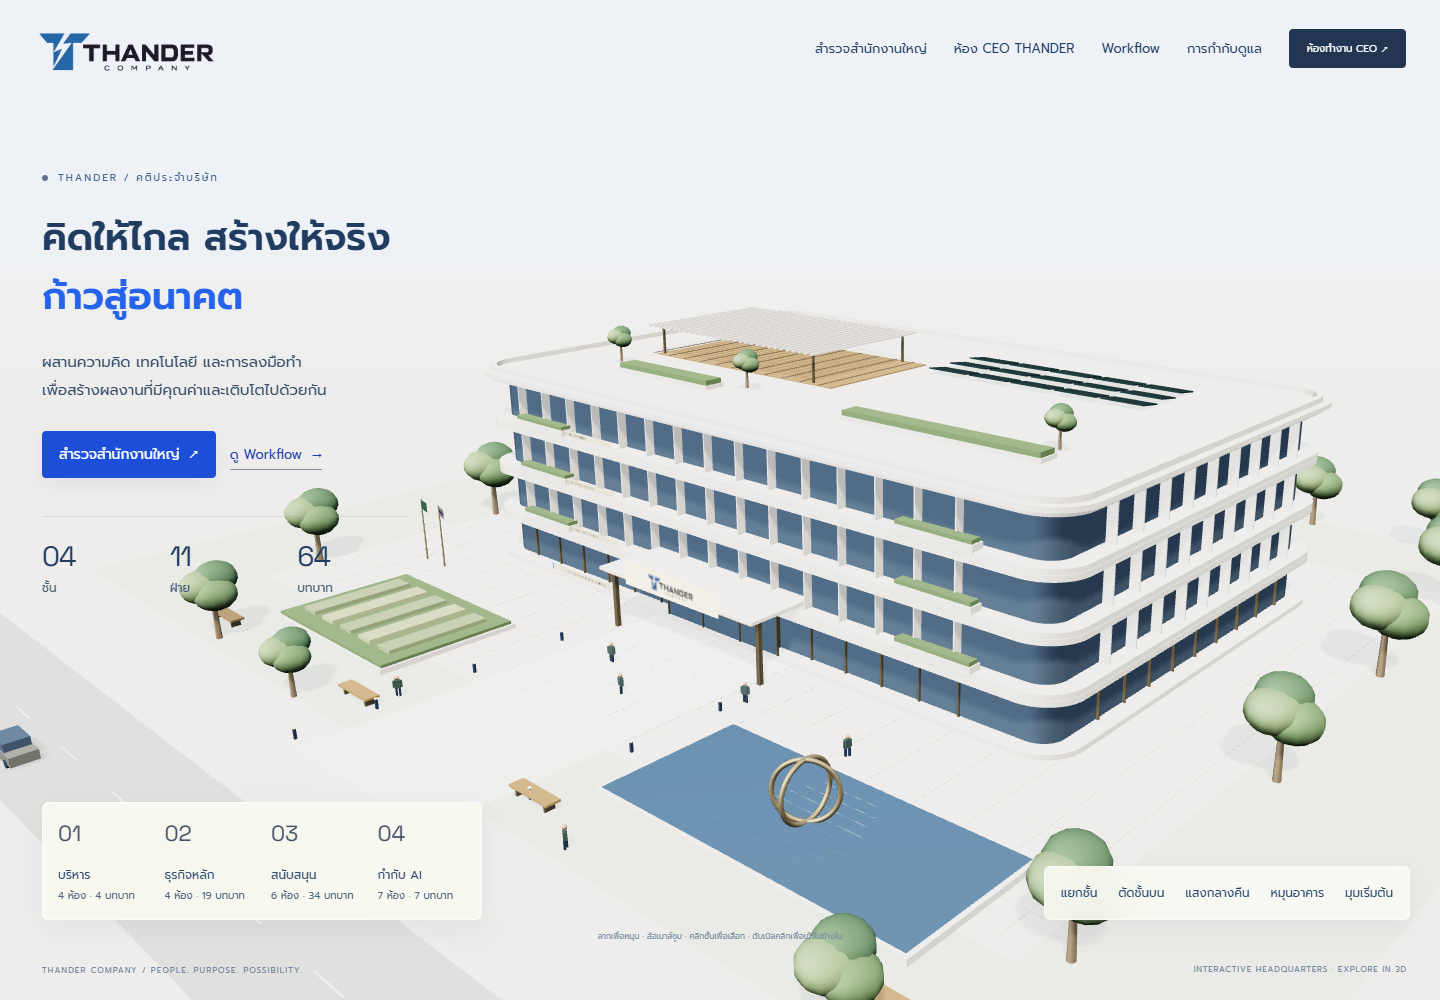
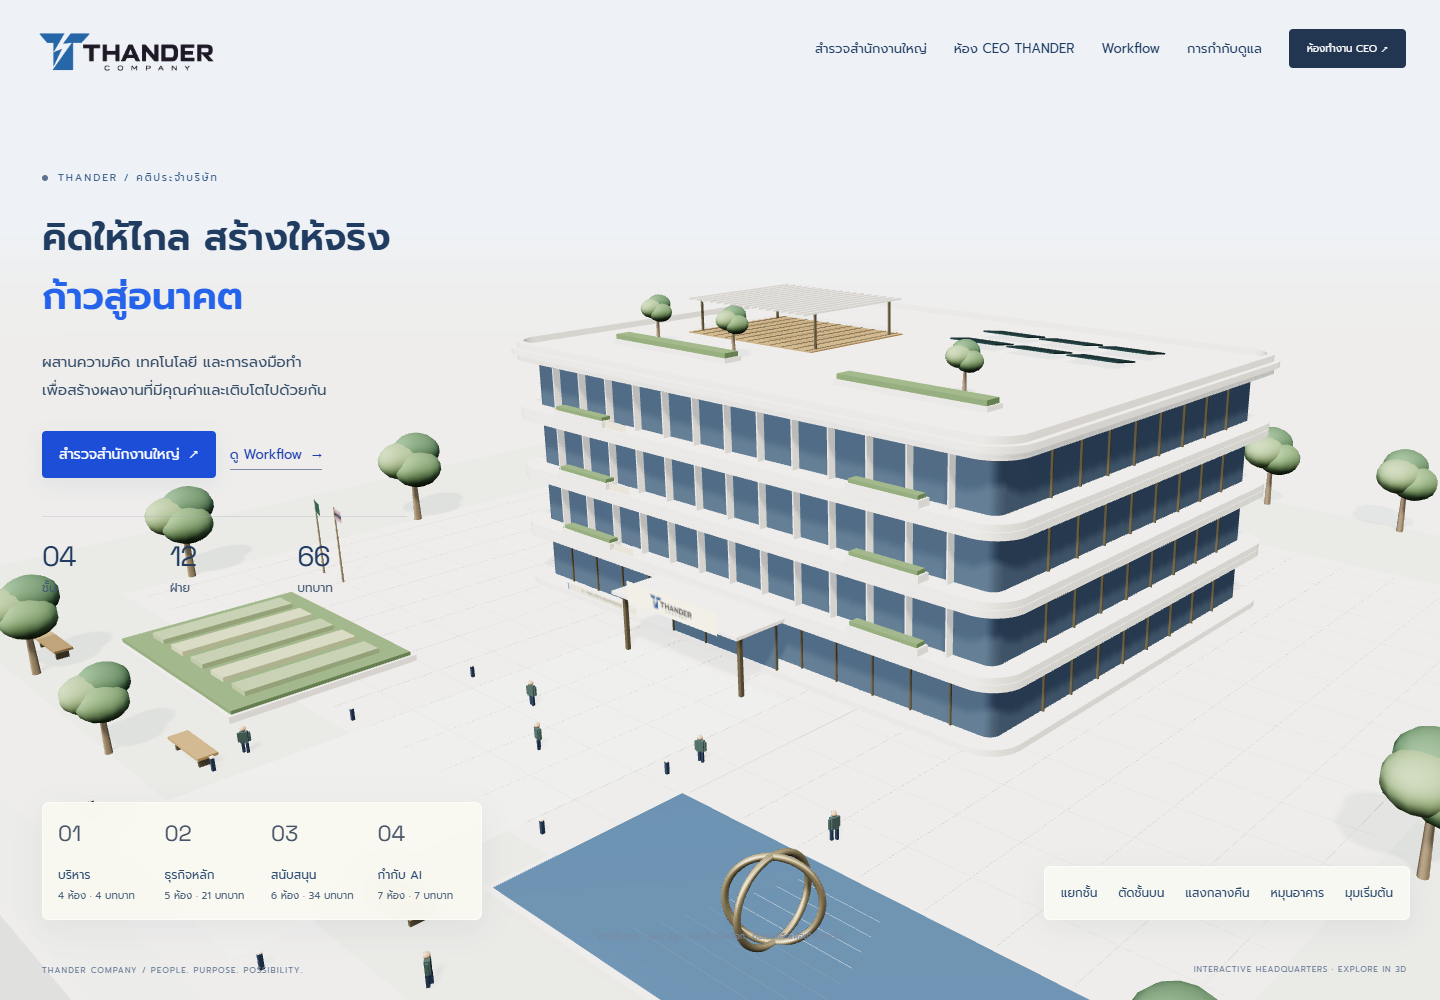
Show THANDER creative roles and proportional office plans

diff --git a/Portfolio.html b/Portfolio.html
@@ -3440,12 +3440,12 @@ a:focus-visible, button:focus-visible, input:focus-visible { outline: 2px solid 
         <div class="proj-slide" style="min-width:100%;overflow-y:auto;max-height:calc(90vh - 130px);">
           <div style="width:100%;aspect-ratio:600/225;background:#172d4c;overflow:hidden;position:relative;">
             <img src="images/projects/thander-company.png" width="1440" height="1000" loading="lazy" alt="THANDER Company — สำนักงานใหญ่ 3D พร้อมคติบริษัท มุมมองมือถือและห้องทำงาน CEO" style="width:100%;height:100%;object-fit:cover;object-position:center 47%;">
-            <span style="position:absolute;bottom:12px;left:16px;background:#152b32ed;padding:6px 10px;border-radius:6px;font-size:0.6rem;letter-spacing:0.1em;color:#c5daff;">4 FLOORS · 11 DEPARTMENTS · 64 ROLES</span>
+            <span style="position:absolute;bottom:12px;left:16px;background:#152b32ed;padding:6px 10px;border-radius:6px;font-size:0.6rem;letter-spacing:0.1em;color:#c5daff;">4 FLOORS · 12 DEPARTMENTS · 66 ROLES</span>
           </div>
           <div style="padding:1.75rem;">
             <span style="display:inline-block;font-size:0.68rem;font-weight:700;letter-spacing:0.12em;color:#93bfff;border:1px solid #93bfff44;border-radius:99px;padding:0.25rem 0.75rem;margin-bottom:1rem;">3D Campus · Workflow · CEO Workspace</span>
             <h3 class="bento-title" style="margin-bottom:0.65rem;">THANDER Company</h3>
-            <p style="font-size:0.9rem;line-height:1.85;color:rgba(248,250,252,0.72);margin:0 0 1.25rem;">สำนักงานใหญ่ 3D โทนน้ำเงิน 4 ชั้น 11 ฝ่าย 64 บทบาท พร้อมคติ “คิดให้ไกล สร้างให้จริง ก้าวสู่อนาคต” ปรับอาคารให้เด่นขึ้นบนมือถือ และพับกรอบรายละเอียดเพื่อเห็นผังภายในครบทุกชั้น เปิดดูแผนกและหน้าที่ได้เมื่อต้องการ มี Workflow และไดอะแกรม SVG อธิบายการทำงานทุกฝ่าย ห้อง CEO THANDER ชั้น 1 มี CEO ประจำห้องเพียงคนเดียว เชื่อมพื้นที่ทำงานส่วนตัว มีตัวเลขสรุป ค้นหา กรอง ลบงาน และกู้คืนจากถังขยะ พร้อมสั่งงาน Gemini ขอแก้ไข ตรวจรับ และดาวน์โหลดไฟล์ภาษาไทยสำหรับ Excel มีตัวอย่างแผนคอนเทนต์ 7 วันให้ทดลองโดยไม่ใช้ AI ส่วนงาน AI จริงใช้โควต้า Free Tier ของโปรเจกต์ Google ที่ไม่เปิด Billing และไม่สลับไป OpenAI</p>
+            <p style="font-size:0.9rem;line-height:1.85;color:rgba(248,250,252,0.72);margin:0 0 1.25rem;">สำนักงานใหญ่ 3D โทนน้ำเงิน 4 ชั้น 12 ฝ่าย 66 บทบาท พร้อมคติ “คิดให้ไกล สร้างให้จริง ก้าวสู่อนาคต” ปรับอาคารเป็น 44×32 เมตร ห้องและโต๊ะมีขนาดตามจำนวนคน เพิ่มฝ่ายครีเอทีฟและสื่อชั้น 2 พร้อมกราฟิกดีไซเนอร์และนักตัดต่อวิดีโอ มีโต๊ะ จอออกแบบและไทม์ไลน์ประจำตัว พับกรอบรายละเอียดเพื่อเห็นผังภายในครบทุกชั้น เปิดดูแผนกและหน้าที่ได้เมื่อต้องการ มี Workflow และไดอะแกรม SVG อธิบายการทำงานทุกฝ่าย ห้อง CEO THANDER ชั้น 1 มี CEO ประจำห้องเพียงคนเดียว เชื่อมพื้นที่ทำงานส่วนตัว มีตัวเลขสรุป ค้นหา กรอง ลบงาน และกู้คืนจากถังขยะ สั่งงานครีเอทีฟได้เป็นแบบกราฟิก HTML, Storyboard และแผนตัดต่อ (ยังไม่เรนเดอร์ MP4) พร้อมสั่งงาน Gemini ขอแก้ไข ตรวจรับ และดาวน์โหลดไฟล์ภาษาไทยสำหรับ Excel มีตัวอย่างแผนคอนเทนต์ 7 วันให้ทดลองโดยไม่ใช้ AI ส่วนงาน AI จริงใช้โควต้า Free Tier ของโปรเจกต์ Google ที่ไม่เปิด Billing และไม่สลับไป OpenAI</p>
             <div style="display:flex;flex-wrap:wrap;gap:0.4rem;margin-bottom:1.5rem;">
               <span style="font-size:0.7rem;padding:0.25rem 0.7rem;border:1px solid #93bfff4d;color:#93bfff;border-radius:99px;">Three.js</span><span style="font-size:0.7rem;padding:0.25rem 0.7rem;border:1px solid #93bfff4d;color:#93bfff;border-radius:99px;">Gemini API</span><span style="font-size:0.7rem;padding:0.25rem 0.7rem;border:1px solid #93bfff4d;color:#93bfff;border-radius:99px;">Vercel Functions</span><span style="font-size:0.7rem;padding:0.25rem 0.7rem;border:1px solid #93bfff4d;color:#93bfff;border-radius:99px;">Private Blob</span>
             </div>
@@ -3454,6 +3454,8 @@ a:focus-visible, button:focus-visible, input:focus-visible { outline: 2px solid 
               <a href="https://thander-company-ai-campus.vercel.app/workflow.html#practiceLab" target="_blank" rel="noopener" style="color:#93bfff;font-size:0.82rem;text-decoration:underline;text-underline-offset:3px;">ลองสั่งงานตัวอย่างและรับไฟล์ ↗</a>
               <a href="https://thander-company-ai-campus.vercel.app/#floor=1" target="_blank" rel="noopener" style="color:#93bfff;font-size:0.82rem;">ดูผังภายในทั้งชั้น ↗</a>
               <a href="https://thander-company-ai-campus.vercel.app/#ceo" target="_blank" rel="noopener" style="color:#93bfff;font-size:0.82rem;">เข้าห้อง CEO THANDER ↗</a>
+              <a href="https://thander-company-ai-campus.vercel.app/#room=B-5" target="_blank" rel="noopener" style="color:#93bfff;font-size:0.82rem;">เข้าห้องครีเอทีฟและสื่อ ↗</a>
+              <a href="images/projects/thander-creative-studio.png" target="_blank" rel="noopener" style="color:#93bfff;font-size:0.82rem;">ดูภาพห้องกราฟิกและวิดีโอ ↗</a>
               <a href="images/projects/thander-ceo-overview.png" target="_blank" rel="noopener" style="color:#93bfff;font-size:0.82rem;">ภาพตัวอย่างหน้า CEO ↗</a>
               <span style="font-size:0.7rem;color:#94a3b8;">Source repository: Private</span>
             </div>

diff --git a/index.html b/index.html
@@ -3440,12 +3440,12 @@ a:focus-visible, button:focus-visible, input:focus-visible { outline: 2px solid 
         <div class="proj-slide" style="min-width:100%;overflow-y:auto;max-height:calc(90vh - 130px);">
           <div style="width:100%;aspect-ratio:600/225;background:#172d4c;overflow:hidden;position:relative;">
             <img src="images/projects/thander-company.png" width="1440" height="1000" loading="lazy" alt="THANDER Company — สำนักงานใหญ่ 3D พร้อมคติบริษัท มุมมองมือถือและห้องทำงาน CEO" style="width:100%;height:100%;object-fit:cover;object-position:center 47%;">
-            <span style="position:absolute;bottom:12px;left:16px;background:#152b32ed;padding:6px 10px;border-radius:6px;font-size:0.6rem;letter-spacing:0.1em;color:#c5daff;">4 FLOORS · 11 DEPARTMENTS · 64 ROLES</span>
+            <span style="position:absolute;bottom:12px;left:16px;background:#152b32ed;padding:6px 10px;border-radius:6px;font-size:0.6rem;letter-spacing:0.1em;color:#c5daff;">4 FLOORS · 12 DEPARTMENTS · 66 ROLES</span>
           </div>
           <div style="padding:1.75rem;">
             <span style="display:inline-block;font-size:0.68rem;font-weight:700;letter-spacing:0.12em;color:#93bfff;border:1px solid #93bfff44;border-radius:99px;padding:0.25rem 0.75rem;margin-bottom:1rem;">3D Campus · Workflow · CEO Workspace</span>
             <h3 class="bento-title" style="margin-bottom:0.65rem;">THANDER Company</h3>
-            <p style="font-size:0.9rem;line-height:1.85;color:rgba(248,250,252,0.72);margin:0 0 1.25rem;">สำนักงานใหญ่ 3D โทนน้ำเงิน 4 ชั้น 11 ฝ่าย 64 บทบาท พร้อมคติ “คิดให้ไกล สร้างให้จริง ก้าวสู่อนาคต” ปรับอาคารให้เด่นขึ้นบนมือถือ และพับกรอบรายละเอียดเพื่อเห็นผังภายในครบทุกชั้น เปิดดูแผนกและหน้าที่ได้เมื่อต้องการ มี Workflow และไดอะแกรม SVG อธิบายการทำงานทุกฝ่าย ห้อง CEO THANDER ชั้น 1 มี CEO ประจำห้องเพียงคนเดียว เชื่อมพื้นที่ทำงานส่วนตัว มีตัวเลขสรุป ค้นหา กรอง ลบงาน และกู้คืนจากถังขยะ พร้อมสั่งงาน Gemini ขอแก้ไข ตรวจรับ และดาวน์โหลดไฟล์ภาษาไทยสำหรับ Excel มีตัวอย่างแผนคอนเทนต์ 7 วันให้ทดลองโดยไม่ใช้ AI ส่วนงาน AI จริงใช้โควต้า Free Tier ของโปรเจกต์ Google ที่ไม่เปิด Billing และไม่สลับไป OpenAI</p>
+            <p style="font-size:0.9rem;line-height:1.85;color:rgba(248,250,252,0.72);margin:0 0 1.25rem;">สำนักงานใหญ่ 3D โทนน้ำเงิน 4 ชั้น 12 ฝ่าย 66 บทบาท พร้อมคติ “คิดให้ไกล สร้างให้จริง ก้าวสู่อนาคต” ปรับอาคารเป็น 44×32 เมตร ห้องและโต๊ะมีขนาดตามจำนวนคน เพิ่มฝ่ายครีเอทีฟและสื่อชั้น 2 พร้อมกราฟิกดีไซเนอร์และนักตัดต่อวิดีโอ มีโต๊ะ จอออกแบบและไทม์ไลน์ประจำตัว พับกรอบรายละเอียดเพื่อเห็นผังภายในครบทุกชั้น เปิดดูแผนกและหน้าที่ได้เมื่อต้องการ มี Workflow และไดอะแกรม SVG อธิบายการทำงานทุกฝ่าย ห้อง CEO THANDER ชั้น 1 มี CEO ประจำห้องเพียงคนเดียว เชื่อมพื้นที่ทำงานส่วนตัว มีตัวเลขสรุป ค้นหา กรอง ลบงาน และกู้คืนจากถังขยะ สั่งงานครีเอทีฟได้เป็นแบบกราฟิก HTML, Storyboard และแผนตัดต่อ (ยังไม่เรนเดอร์ MP4) พร้อมสั่งงาน Gemini ขอแก้ไข ตรวจรับ และดาวน์โหลดไฟล์ภาษาไทยสำหรับ Excel มีตัวอย่างแผนคอนเทนต์ 7 วันให้ทดลองโดยไม่ใช้ AI ส่วนงาน AI จริงใช้โควต้า Free Tier ของโปรเจกต์ Google ที่ไม่เปิด Billing และไม่สลับไป OpenAI</p>
             <div style="display:flex;flex-wrap:wrap;gap:0.4rem;margin-bottom:1.5rem;">
               <span style="font-size:0.7rem;padding:0.25rem 0.7rem;border:1px solid #93bfff4d;color:#93bfff;border-radius:99px;">Three.js</span><span style="font-size:0.7rem;padding:0.25rem 0.7rem;border:1px solid #93bfff4d;color:#93bfff;border-radius:99px;">Gemini API</span><span style="font-size:0.7rem;padding:0.25rem 0.7rem;border:1px solid #93bfff4d;color:#93bfff;border-radius:99px;">Vercel Functions</span><span style="font-size:0.7rem;padding:0.25rem 0.7rem;border:1px solid #93bfff4d;color:#93bfff;border-radius:99px;">Private Blob</span>
             </div>
@@ -3454,6 +3454,8 @@ a:focus-visible, button:focus-visible, input:focus-visible { outline: 2px solid 
               <a href="https://thander-company-ai-campus.vercel.app/workflow.html#practiceLab" target="_blank" rel="noopener" style="color:#93bfff;font-size:0.82rem;text-decoration:underline;text-underline-offset:3px;">ลองสั่งงานตัวอย่างและรับไฟล์ ↗</a>
               <a href="https://thander-company-ai-campus.vercel.app/#floor=1" target="_blank" rel="noopener" style="color:#93bfff;font-size:0.82rem;">ดูผังภายในทั้งชั้น ↗</a>
               <a href="https://thander-company-ai-campus.vercel.app/#ceo" target="_blank" rel="noopener" style="color:#93bfff;font-size:0.82rem;">เข้าห้อง CEO THANDER ↗</a>
+              <a href="https://thander-company-ai-campus.vercel.app/#room=B-5" target="_blank" rel="noopener" style="color:#93bfff;font-size:0.82rem;">เข้าห้องครีเอทีฟและสื่อ ↗</a>
+              <a href="images/projects/thander-creative-studio.png" target="_blank" rel="noopener" style="color:#93bfff;font-size:0.82rem;">ดูภาพห้องกราฟิกและวิดีโอ ↗</a>
               <a href="images/projects/thander-ceo-overview.png" target="_blank" rel="noopener" style="color:#93bfff;font-size:0.82rem;">ภาพตัวอย่างหน้า CEO ↗</a>
               <span style="font-size:0.7rem;color:#94a3b8;">Source repository: Private</span>
             </div>

diff --git a/README.md b/README.md
@@ -43,7 +43,7 @@
 
 | Project | Description |
 |---|---|
-| [THANDER Company](https://thander-company-ai-campus.vercel.app/) | สำนักงานใหญ่ 3D 4 ชั้น 11 ฝ่าย 64 บทบาท คติ “คิดให้ไกล สร้างให้จริง ก้าวสู่อนาคต” มุมมองมือถือใหญ่ขึ้น ผังทุกชั้นเห็นครบด้วยกรอบรายละเอียดที่พับได้ พร้อม [Workflow และหน้าที่แต่ละฝ่าย](https://thander-company-ai-campus.vercel.app/workflow.html#departmentDirectory) และห้องทำงาน CEO ส่วนตัวที่มีตัวเลขสรุป ค้นหาและกรองสถานะงาน ลบ/กู้คืนผ่านถังขยะ พร้อมห้อง CEO THANDER ในชั้น 1 สั่ง Gemini ขอแก้ไข ตรวจรับ และดาวน์โหลดภาษาไทยสำหรับ Excel รวม [ตัวอย่างสั่งงานแบบไม่เรียก AI](https://thander-company-ai-campus.vercel.app/workflow.html#practiceLab) (Free Tier ต้องใช้โปรเจกต์ Google ที่ไม่เปิด Billing; โควต้าตามบัญชี) (Private source) |
+| [THANDER Company](https://thander-company-ai-campus.vercel.app/) | สำนักงานใหญ่ 3D 4 ชั้น 12 ฝ่าย 66 บทบาท คติ “คิดให้ไกล สร้างให้จริง ก้าวสู่อนาคต” มุมมองมือถือใหญ่ขึ้น ผังทุกชั้นเห็นครบด้วยกรอบรายละเอียดที่พับได้ พร้อม [Workflow และหน้าที่แต่ละฝ่าย](https://thander-company-ai-campus.vercel.app/workflow.html#departmentDirectory) และห้องทำงาน CEO ส่วนตัวที่มีตัวเลขสรุป ค้นหาและกรองสถานะงาน ลบ/กู้คืนผ่านถังขยะ พร้อมห้อง CEO THANDER ในชั้น 1 และฝ่ายครีเอทีฟและสื่อชั้น 2 (กราฟิกดีไซเนอร์/นักตัดต่อวิดีโอ) อาคาร 44×32 เมตร ห้องตามจำนวนคน สั่ง Gemini ขอแก้ไข ตรวจรับ และดาวน์โหลดภาษาไทยสำหรับ Excel รวม [ตัวอย่างสั่งงานแบบไม่เรียก AI](https://thander-company-ai-campus.vercel.app/workflow.html#practiceLab) (Free Tier ต้องใช้โปรเจกต์ Google ที่ไม่เปิด Billing; โควต้าตามบัญชี) (Private source) |
 | [Thander Usage](https://thander-usage.vercel.app/) | Windows desktop robot companion for Claude/Codex usage, articulated greeting and interactive web demo. [Source](https://github.com/tanakrthum254614-max/thander-usage) |
 | [Gold Signal](https://github.com/tanakrthum254614-max/gold-signal) | แพลตฟอร์มสัญญาณการซื้อขายทองคำแบบเรียลไทม์ พร้อมผลทดสอบย้อนหลังและการเปิดเผยผลการซื้อขายจริง |
 | [IT Asset Tracker](https://github.com/tanakrthum254614-max/it-asset-tracker) | ระบบทะเบียนครุภัณฑ์ไอทีพร้อมป้าย QR และการติดตามการรับประกัน |
@@ -83,3 +83,5 @@ THANDER workspace update: added status summaries, combined search/status filters
 THANDER update: job deletion with confirmation and a private recoverable trash, plus a dedicated 3D CEO THANDER office on floor 1 ([enter office](https://thander-company-ai-campus.vercel.app/#ceo)). Backend tests now total 36. Browser checks used fixtures only for destructive actions; no real company jobs were deleted and no AI generation was triggered. Updated home/CEO previews and added the office screenshot; CEO task previews use explicitly labeled sample data.
 
 THANDER office update: the CEO is now the only person in the floor 1 executive office. Removed the coordinator character and refreshed the campus and office screenshots.
+
+THANDER Creative & Media update: added Graphic Designer B5-01 and Video Editor B5-02 in a dedicated floor 2 studio beside Marketing. Totals: 4 floors, 12 departments, 22 workrooms, 66 roles. Resized the shell to 44 × 32 m and offices by occupancy, preserving human/furniture metre scale. Updated Workflow, CEO routing and public previews. AI output supports HTML drafts, storyboards and editing plans, without MP4 rendering. Thirty-nine automated tests and desktop/mobile browser checks passed without AI calls or real job mutations.
